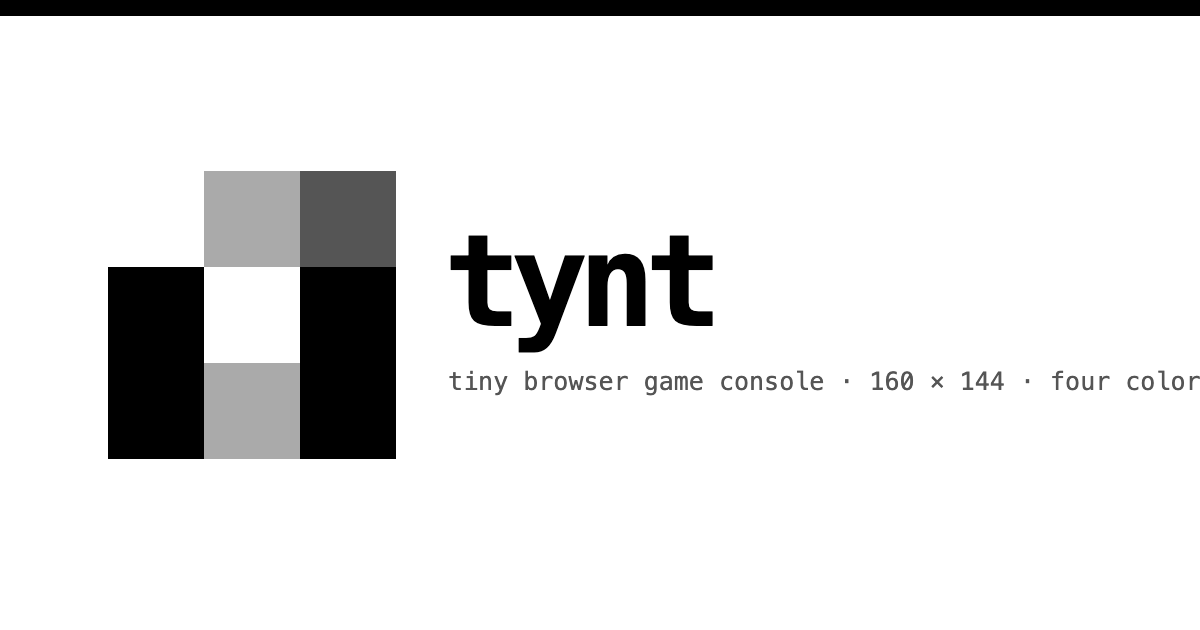
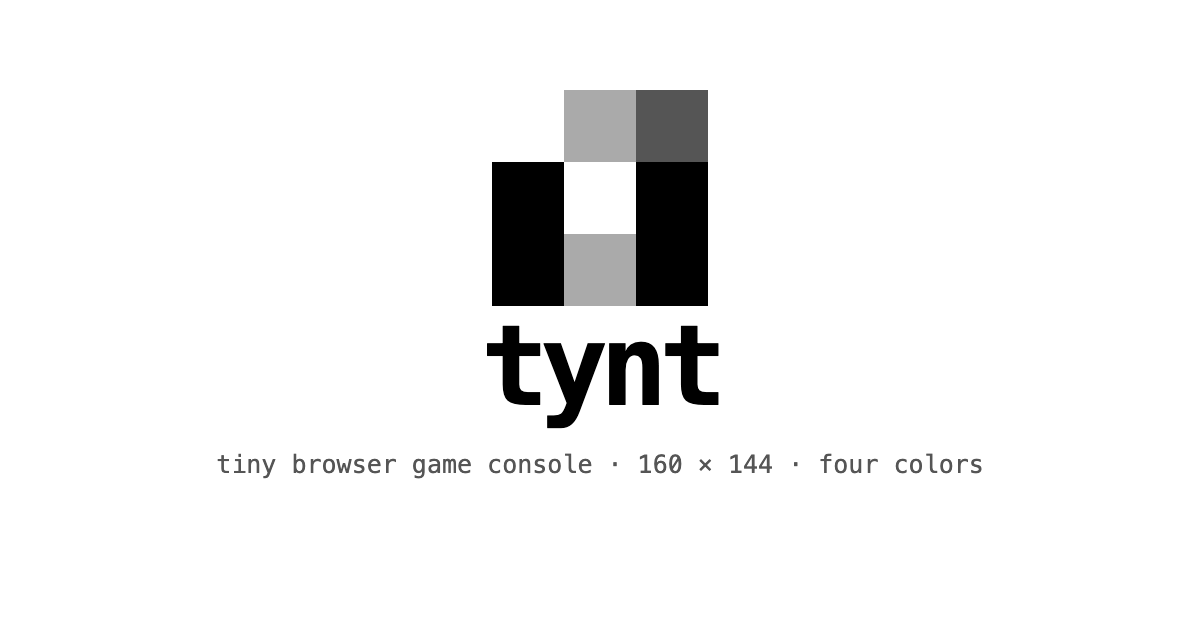
fix: center social preview and refine project copy

diff --git a/scripts/repository/tests/health.test.ts b/scripts/repository/tests/health.test.ts
@@ -63,6 +63,21 @@ describe("public repository health", () => {
     expect(existsSync(projectPath("apps/web/vercel.json"))).toBe(false);
   });
 
+  test("keeps project copy free of em dashes", () => {
+    const emDash = String.fromCodePoint(0x2014);
+    for (const path of ["README.md", "apps/web/index.html", "apps/web/vite.config.ts"]) {
+      expect(readProjectFile(path), `${path} should not contain em dashes`).not.toContain(emDash);
+    }
+  });
+
+  test("centers social artwork inside a crop-safe composition", () => {
+    const social = readProjectFile("apps/web/public/tynt-social.svg");
+
+    expect(social).toContain('viewBox="0 0 1200 630"');
+    expect(social).toContain('id="social-content" transform="translate(600 315)"');
+    expect(social.match(/text-anchor="middle"/g)).toHaveLength(2);
+  });
+
   test("keeps every local README link available in the public repository", () => {
     const links = [...readProjectFile("README.md").matchAll(/\[[^\]]*\]\(([^)]+)\)/g)]
       .map((match) => match[1])

diff --git a/apps/web/index.html b/apps/web/index.html
@@ -7,7 +7,7 @@
     <link rel="icon" href="/tynt-mark.svg" type="image/svg+xml" />
     <link rel="apple-touch-icon" href="/apple-touch-icon.png" />
     <meta name="description" content="Build tiny TypeScript games on a four-color 160 × 144 console." />
-    <meta property="og:title" content="tynt — tiny browser game console" />
+    <meta property="og:title" content="tynt: tiny browser game console" />
     <meta property="og:description" content="Build tiny TypeScript games on a four-color 160 × 144 console." />
     <meta property="og:image" content="/tynt-social.png" />
     <meta name="twitter:card" content="summary_large_image" />

diff --git a/apps/web/vite.config.ts b/apps/web/vite.config.ts
@@ -14,7 +14,7 @@ export default defineConfig({
       devOptions: { enabled: true },
       includeAssets: ["tynt-mark.svg", "icon-192.png", "icon-512.png", "apple-touch-icon.png", "tynt-social.png"],
       manifest: {
-        name: "tynt — tiny browser game console",
+        name: "tynt: tiny browser game console",
         short_name: "tynt",
         description: "Build tiny TypeScript games on a four-color 160 × 144 console.",
         start_url: "/",

diff --git a/README.md b/README.md
@@ -3,7 +3,9 @@
 [![check](https://github.com/cristianbgp/tynt/actions/workflows/check.yml/badge.svg)](https://github.com/cristianbgp/tynt/actions/workflows/check.yml)
 [![MIT License](https://img.shields.io/badge/license-MIT-black.svg)](LICENSE)
 
-![tynt — tiny browser game console](apps/web/public/tynt-social.png)
+<p align="center">
+  <img src="apps/web/public/tynt-social.png" alt="tynt: tiny browser game console" width="720" />
+</p>
 
 tynt is a tiny browser game console. Write a cartridge in TypeScript, press Run, and draw on a fixed 160 × 144 canvas with four shades of gray.
 
@@ -13,11 +15,11 @@ The project is local-first and static: no server, accounts, publishing service, 
 
 This repository keeps the product and engine separate without using Bun workspaces:
 
-- `apps/web` — the React, Vite, Tailwind CSS, and shadcn/ui application.
-- `apps/docs` — the generated TypeDoc reference and its custom tynt theme.
-- `packages/core` — the browser-independent TypeScript engine and cartridge format.
-- `cartridges` — every bundled and community-submitted game, using one shared publication format.
-- `scripts/cartridges` — validation and catalog generation for public cartridges.
+- `apps/web`: the React, Vite, Tailwind CSS, and shadcn/ui application.
+- `apps/docs`: the generated TypeDoc reference and its custom tynt theme.
+- `packages/core`: the browser-independent TypeScript engine and cartridge format.
+- `cartridges`: every bundled and community-submitted game, using one shared publication format.
+- `scripts/cartridges`: validation and catalog generation for public cartridges.
 
 Each package owns its own `package.json`, `bun.lock`, and `node_modules`. The root package has no application dependencies; it only coordinates commands.
 
@@ -41,12 +43,12 @@ The app opens at `http://127.0.0.1:4173`.
 
 Routes:
 
-- `/` — cartridge editor and game preview.
-- `/gallery` — searchable bundled and community-submitted games.
-- `/library` — searchable cartridges saved on this device.
-- `/play/public/:slug` — focused play mode for a public cartridge.
-- `/play/local/:id` — focused play mode for a cartridge saved on this device.
-- `/sprites` — an 8×8 four-color sprite editor with cartridge-ready output.
+- `/`: cartridge editor and game preview.
+- `/gallery`: searchable bundled and community-submitted games.
+- `/library`: searchable cartridges saved on this device.
+- `/play/public/:slug`: focused play mode for a public cartridge.
+- `/play/local/:id`: focused play mode for a cartridge saved on this device.
+- `/sprites`: an 8×8 four-color sprite editor with cartridge-ready output.
 
 Root commands:
 
@@ -88,9 +90,9 @@ The emulator buttons and keyboard feed the same input state:
 
 Run or rerun focuses the preview automatically so gameplay keys are ready immediately. Toolbar actions also have global shortcuts:
 
-- Control + Shift + Enter — Run or rerun on every platform.
-- Command/Control + O — Import a `.tynt` cartridge.
-- Command/Control + S — Export the current cartridge.
+- Control + Shift + Enter: Run or rerun on every platform.
+- Command/Control + O: Import a `.tynt` cartridge.
+- Command/Control + S: Export the current cartridge.
 
 On phones, the editor uses **Code** and **Play** panes instead of placing both full workspaces in one long page. A successful run selects Play and focuses the console; switching back preserves the editor and running game state.
 
@@ -158,21 +160,21 @@ Coordinates are rounded to integers and clipped to the canvas. Color indexes are
 
 The editor dropdown and gallery are generated from the top-level `cartridges/` collection:
 
-- `starter.tynt` — movement, actions, reset, and scoring.
-- `shapes.tynt` — every drawing primitive.
-- `animation.tynt` — fixed-step movement.
-- `snake.tynt` — grid movement, growth, collision, and scoring.
-- `asteroids.tynt` — rotation, velocity, projectiles, and collision.
-- `platformer.tynt` — gravity, jumping, and platforms.
-- `flappy.tynt` — one-button movement and scrolling obstacles.
-- `coin-dash.tynt` — a timed scrolling game using sprites, maps, camera, seeded randomness, collisions, timers, and synthesized audio.
-- `sprites.tynt` — the 8×8 tynt mark, transparent pixel sprites, and two-frame animation.
-- `soundboard.tynt` — individual tones and short synthesized effects.
-- `pong.tynt` — paddle collision, opponent movement, serving, and scoring.
-- `sokoban.tynt` — a compact tile-map pushing puzzle.
-- `lunar.tynt` — gravity, limited fuel, procedural terrain, and safe landing.
+- `starter.tynt`: movement, actions, reset, and scoring.
+- `shapes.tynt`: every drawing primitive.
+- `animation.tynt`: fixed-step movement.
+- `snake.tynt`: grid movement, growth, collision, and scoring.
+- `asteroids.tynt`: rotation, velocity, projectiles, and collision.
+- `platformer.tynt`: gravity, jumping, and platforms.
+- `flappy.tynt`: one-button movement and scrolling obstacles.
+- `coin-dash.tynt`: a timed scrolling game using sprites, maps, camera, seeded randomness, collisions, timers, and synthesized audio.
+- `sprites.tynt`: the 8×8 tynt mark, transparent pixel sprites, and two-frame animation.
+- `soundboard.tynt`: individual tones and short synthesized effects.
+- `pong.tynt`: paddle collision, opponent movement, serving, and scoring.
+- `sokoban.tynt`: a compact tile-map pushing puzzle.
+- `lunar.tynt`: gravity, limited fuel, procedural terrain, and safe landing.
 
-Opening a gallery cartridge creates an editable local copy. Every game shown in the gallery—including tynt's bundled examples—is a normal repository submission under `cartridges/<slug>/` containing `game.tynt`, `cartridge.json`, `cover.png`, and an optional README. The catalog discovers these directories automatically; adding a game does not require editing an application registry or central list. The Bun generator validates and compiles them before they can enter a production build.
+Opening a gallery cartridge creates an editable local copy. Every game shown in the gallery, including tynt's bundled examples, is a normal repository submission under `cartridges/<slug>/` containing `game.tynt`, `cartridge.json`, `cover.png`, and an optional README. The catalog discovers these directories automatically; adding a game does not require editing an application registry or central list. The Bun generator validates and compiles them before they can enter a production build.
 
 To submit a game, copy `cartridges/_template`, export your cartridge from the editor, add a 320 × 288 nearest-neighbor cover captured from the 160 × 144 game canvas, run `bun run check`, and open a pull request. See [CONTRIBUTING.md](CONTRIBUTING.md) for the complete format and license requirements. Merging the pull request publishes the cartridge; no account or upload server is required.
 
